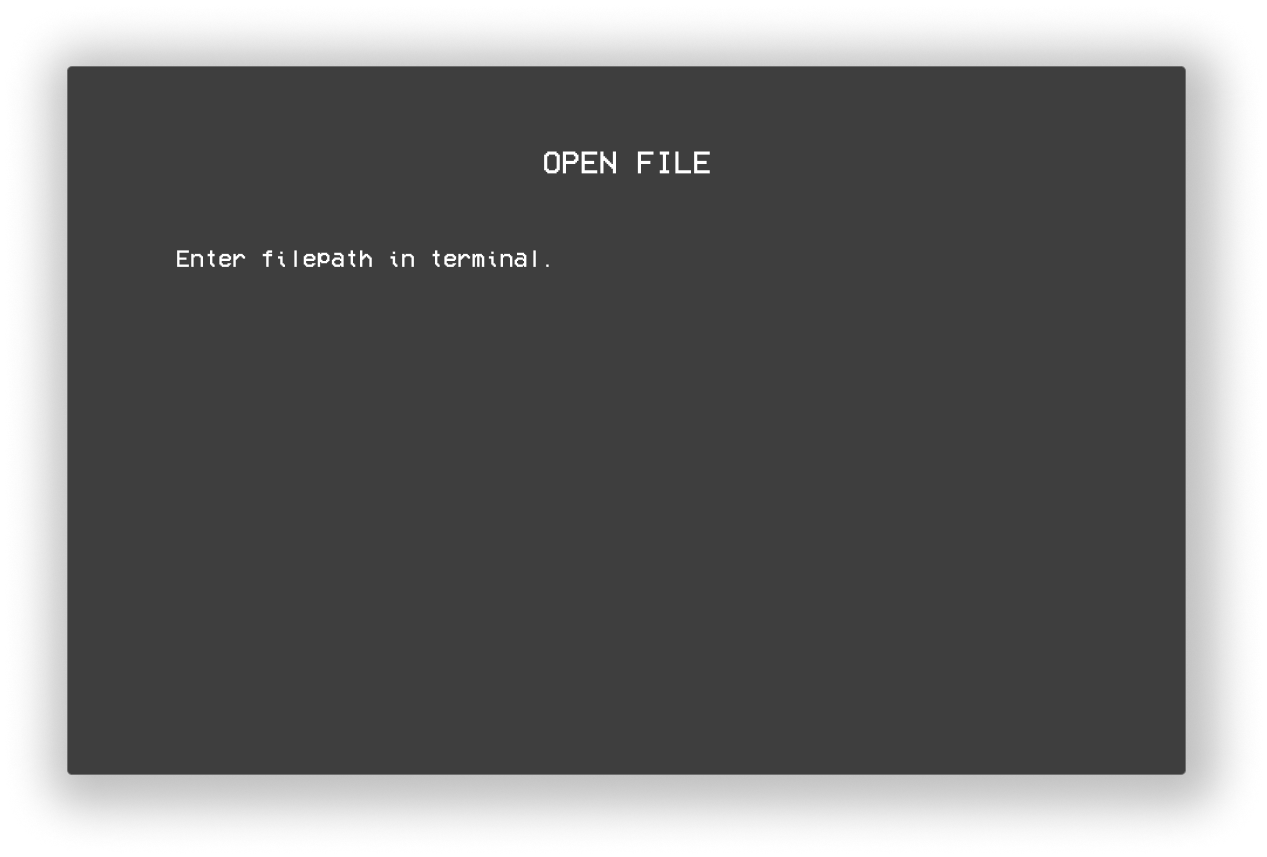
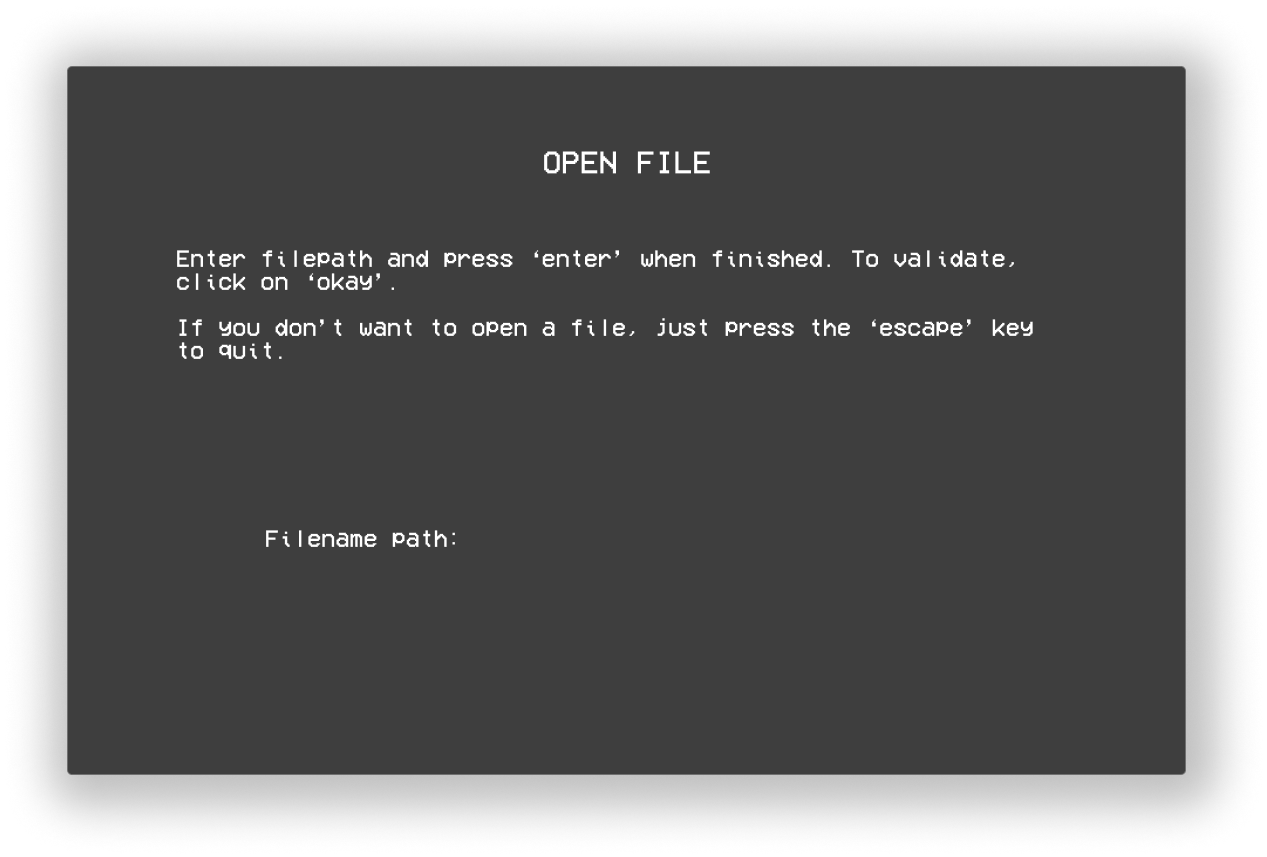
FIX: open pop up updated with rules to follow

diff --git a/include/window.h b/include/window.h
@@ -14,7 +14,7 @@
     #include <time.h>
     #include <math.h>
     #define POS_CHAT_BOX (sfVector2f){\
-    1000, 620\
+    1020, 620\
     }
     #define SIZE_CHAT_BOX (sfVector2f){\
     400, 35\
